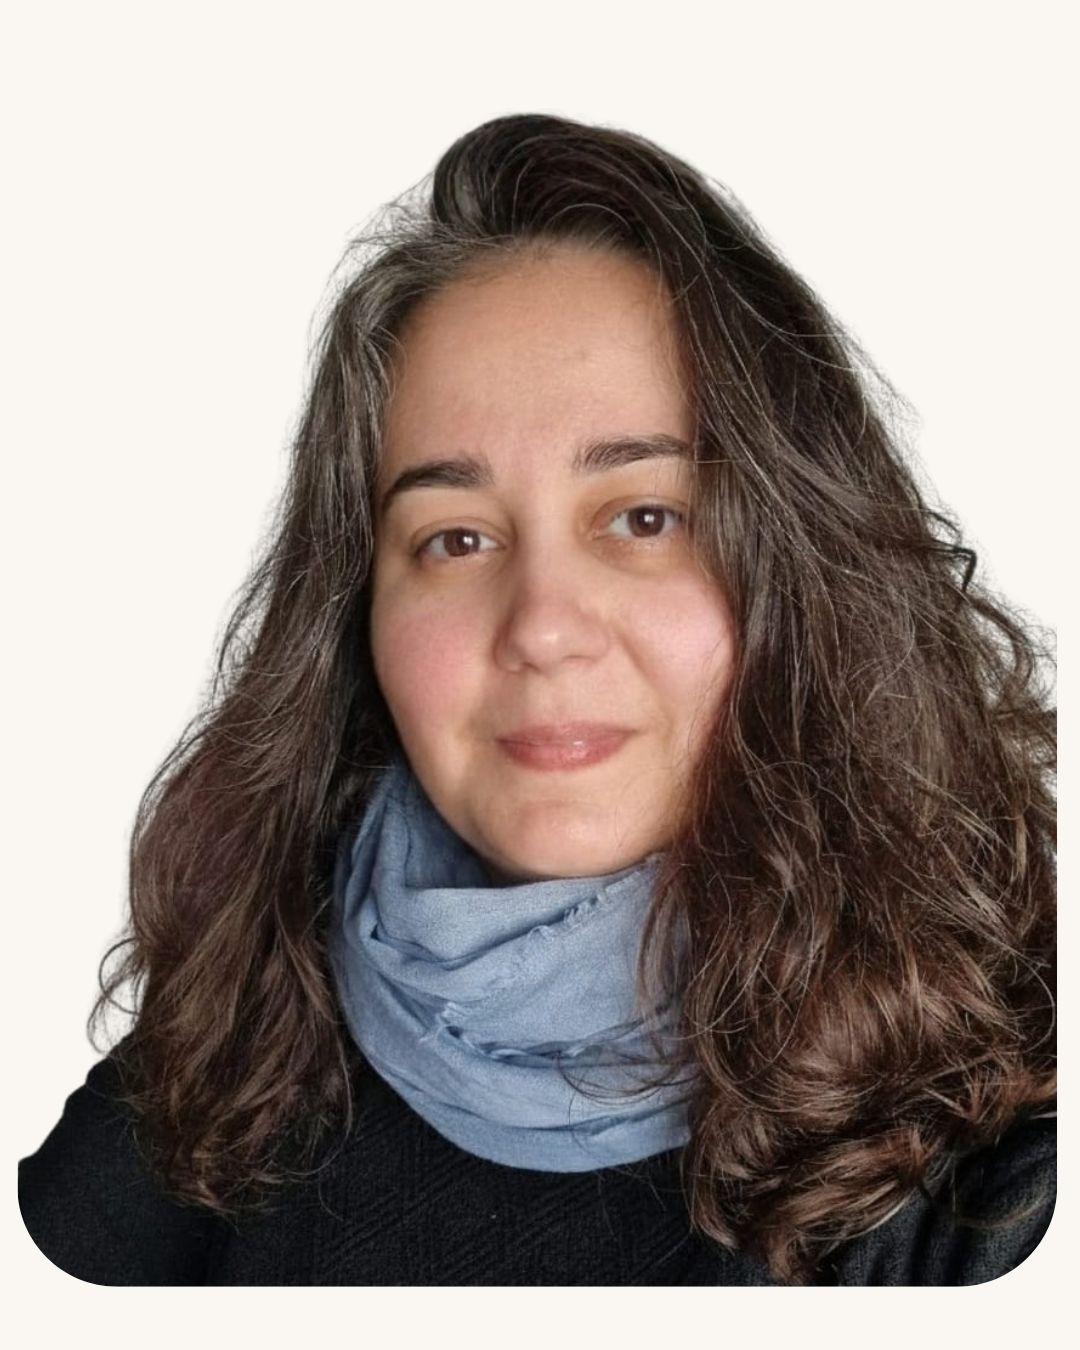
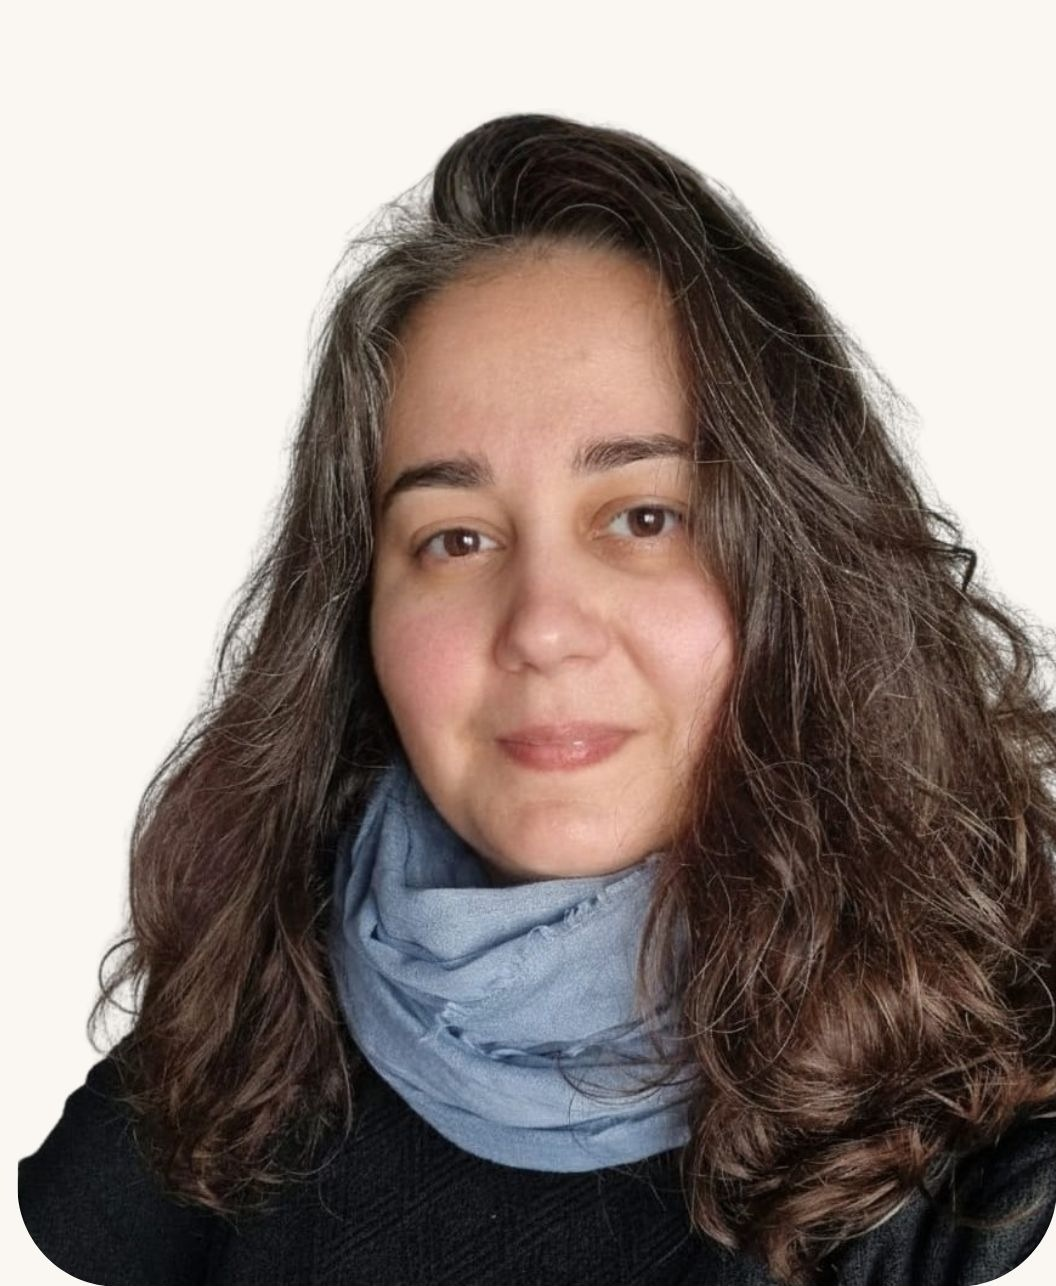
ajustes

diff --git a/Merlinices/index.html b/Merlinices/index.html
@@ -71,7 +71,7 @@
   </header>
 
   <main class="ev-home">
-    <section class="ev-home-hero">
+    <section class="ev-home-hero padsIndex">
       <div class="container-smooth">
         <div class="ev-brandmark">
           <h1 class="ev-brandmark__title">Em Verdade</h1>
@@ -80,7 +80,7 @@
       </div>
     </section>
 
-    <section class="container-fluid ev-band ev-band--intro">
+    <section class="container-fluid ev-band ev-band--intro padsIndex">
       <div class="container-smooth ev-band__inner">
         <h2 class="t-h2 ev-band__title text-accent">Os Animais Merecem ser Escutados</h2>
         <div class="w3-row mediaRow">
@@ -105,7 +105,7 @@
       </div>
     </section>
 
-    <section class="container-fluid ev-band ev-band--reading">
+    <section class="container-fluid ev-band ev-band--reading padsIndex">
       <div class="container-smooth ev-band__inner">
         <h2 class="t-h2 ev-band__title text-accent">Leitura de Aura para Animais</h2>
         <div class="w3-row mediaRow">
@@ -135,7 +135,7 @@
       </div>
     </section>
 
-    <section class="container-fluid ev-band ev-band--sense">
+    <section class="container-fluid ev-band ev-band--sense padsIndex">
       <div class="container-smooth ev-band__inner">
         <h2 class="t-h2 ev-band__title text-accent">Quando este trabalho pode fazer sentido</h2>
         <div class="w3-row mediaRow">
@@ -154,12 +154,12 @@
       </div>
     </section>
 
-    <section class="container-fluid ev-band ev-band--about">
+    <section class="container-fluid ev-band ev-band--about padsIndex">
       <div class="container-smooth ev-band__inner">
         <h2 class="t-h2 ev-band__title text-accent">Quem conduz este trabalho</h2>
         <div class="w3-row mediaRow">
           <div class="w3-col m2 w3-center imageIndex">
-            <img src="../img/FundadoraVerdade.jpeg" alt="Catarina Mendonça Português" class="w3-image images" style="margin-top:20px;">
+            <img src="../img/Fundadora.jpeg" alt="Catarina Mendonça Português" class="w3-image images" style="margin-top:20px;">
           </div>
           <div class="w3-col">
             <div class="col-12 plan-break">
@@ -190,7 +190,7 @@
       </div>
     </section>
 
-    <section class="container-fluid ev-band ev-band--testimonials">
+    <section class="container-fluid ev-band ev-band--testimonials padsIndex">
       <div class="container-smooth ev-band__inner ev-band__inner--testimonials">
         <h2 class="t-h2 ev-band__title text-accent">Testemunhos</h2>
         <p class="my-justify t-body ev-band__intro">

diff --git a/Merlinices/merlinices.css b/Merlinices/merlinices.css
@@ -37,6 +37,15 @@ body.merlinices-site .t-h1 {
   font-weight: 400;
 }
 
+body.merlinices-site main h2,
+body.merlinices-site main h3,
+body.merlinices-site .t-h2,
+body.merlinices-site .t-h3 {
+  font-family: "Fraunces", "Maleah Regular", Georgia, serif !important;
+  font-optical-sizing: auto;
+  font-weight: 400;
+}
+
 body.merlinices-site .desktop-nav {
   padding-right: 24px;
 }
@@ -86,17 +95,17 @@ body.merlinices-site .mobile-header::after {
   width: calc(100% - 2.5ch);
   margin: 8px 0 0 1.35ch;
   color: #97abb3;
-  font-family: "Muli", system-ui, -apple-system, "Segoe UI", Roboto, Arial, sans-serif;
+  font-family: "Fraunces", "Maleah Regular", Georgia, serif;
   font-size: 27px;
   font-weight: 400;
+  font-optical-sizing: auto;
   letter-spacing: 0.4em;
   line-height: 1.15;
   white-space: nowrap;
 }
 
 .ev-band__inner {
-  width: min(100% - 2rem, 980px);
-  padding: 52px 44px 58px;
+  padding: 52px 0 58px;
 }
 
 .ev-band__inner--testimonials {
@@ -109,8 +118,7 @@ body.merlinices-site .mobile-header::after {
 }
 
 .ev-band__intro {
-  max-width: 48rem;
-  margin: 0 auto 28px;
+  margin: 0 0 28px;
   text-align: center;
 }
 
@@ -128,8 +136,7 @@ body.merlinices-site .mobile-header::after {
 }
 
 .ev-home-note {
-  max-width: 52rem;
-  margin: 12px auto 0;
+  margin: 12px 0 0;
   font-size: 12px;
   line-height: 1.55;
 }
@@ -169,8 +176,7 @@ body.merlinices-site .merlin-list {
   }
 
   .ev-band__inner {
-    width: min(100% - 1.2rem, 980px);
-    padding: 32px 20px 36px;
+    padding: 32px 0 36px;
   }
 
   .ev-band__inner--testimonials {
